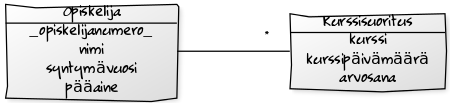
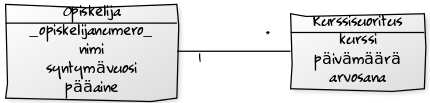
osallistumisrajoitteet merkitty

diff --git a/index.html b/index.html
@@ -260,11 +260,11 @@
 		  <figcaption>Käsitteet kuvataan laatikkoina, joiden sisällä on käsitteen nimi. Yllä käsitteet Opiskelija ja Kurssisuoritus.</figcaption>
 		</figure>
 
-		<p>Jos haluamme ilmaista, että käsite liittyy toiseen käsitteeseen, piirrämme käsitteiden välille viivan. [todo: osallistumisrajoitteet]. Jos käsitteitä voi liittyä monia, lisäämme viivan päähän tähden. Alla olevassa kaaviossa on käsitteet Opiskelija ja Kurssisuoritus, sekä viiva käsitteiden välillä. Kun yhteyttä merkitsevän viivan päässä on tähti, se kertoo että tähden päässä olevia käsitteitä on useita.</p>
+		<p>Jos haluamme ilmaista, että käsite liittyy toiseen käsitteeseen, piirrämme käsitteiden välille viivan. Viivan kumpaankin päätyyn merkitään osallistumisrajoitteet, joilla kuvataan sitä, että kuinka monessa samantyyppisessä yhteydessä käsitteen ilmentymä voi olla. Jos ilmentymään voi liittyä tasan yksi toisen tyyppinen ilmentymä, lisäämme nuolen päähän numeron yksi. Toisaalta, jos ilmentymien määrä on rajoittamaton, lisäämme viivan päähän tähden. Alla olevassa kaaviossa on käsitteet Opiskelija ja Kurssisuoritus, sekä viiva käsitteiden välillä. Yhteen kurssisuoritukseen liittyy aina tasan yksi opiskelija, mutta yhdellä opiskelijalla voi olla useampia kurssisuorituksia.</p>
 
 		<figure>
 		  <img src="img/johdanto/opiskelija-ja-kurssisuoritus-ei-attribuutteja.png" alt="Teksti 'Opiskelija' suunnikkaan sisään kirjoitettuna, Teksti 'Kurssisuoritus' toisen suunnikkaan sisään kirjoitettuna. Suunnikkaiden välille on piirretty viiva, jonka Kurssisuoritus-käsitteen päässä on tähti.">
-		  <figcaption>Opiskelijaan liittyy useita kurssisuorituksia.</figcaption>
+		  <figcaption>Opiskelijaan liittyy useita kurssisuorituksia, mutta jokaiseen kurssisuoritukseen liittyy tasan yksi opiskelija.</figcaption>
 		</figure>
 
 		<p>Käsitteisiin voidaan lisätä myös ominaisuuksia, jotka merkitään käsitteen erilliseen laatikkoon käsitteen nimen alle. Alla olevassa kuvassa Opiskelija-käsitteeseen liittyy ominaisuudet nimi, syntymävuosi ja pääaine.</p>
@@ -444,7 +444,7 @@
 		      <tr>
 			<th>Opiskelija</th>
 			<th>Kurssi</th>
-			<th>Kurssipäivämäärä</th>
+			<th>Päivämäärä</th>
 			<th>Arvosana</th>
 		      </tr>
 		    </thead>
@@ -493,7 +493,7 @@
 
 		<ul>
 		  <li>Opiskelija(<u>Opiskelijanumero</u>, Nimi, Syntymävuosi, Pääaine)</li>
-		  <li>Kurssisuoritus(Opiskelija->Opiskelija, Kurssi, Kurssipäivämäärä, Arvosana)</li>
+		  <li>Kurssisuoritus(Opiskelija->Opiskelija, Kurssi, Päivämäärä, Arvosana)</li>
 		</ul>
 
 		<p>Opiskelijaan liittyvä opiskelijanumero on alleviivattu, sillä se on yksittäisen opiskelijan yksilöivä avain. Kurssisuoritukseen liittyvä Opiskelija-kenttä viittaa Opiskelija-tauluun.</p>
